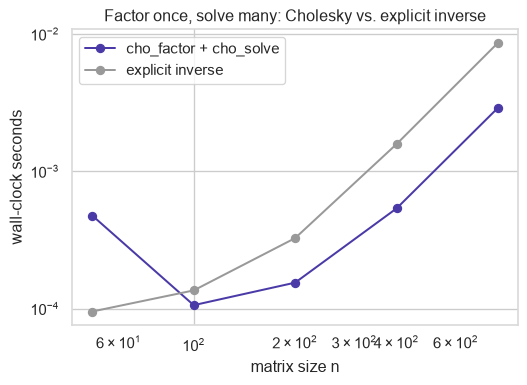
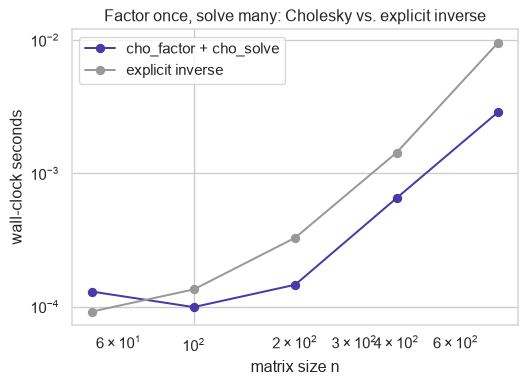
fix(posts): stop the NMF section overstating the ALL/AML split
Only one of the two metagenes is actually diagnosis-pure; the other
is a near-base-rate mix, per code review on PR #157.

diff --git a/docs/posts/matrix-factorizations/index.html b/docs/posts/matrix-factorizations/index.html
@@ -244,7 +244,7 @@ window.Quarto = {
 </figure>
 </div>
 <p>Every factorization here is the closed-form answer to a constrained optimization problem — you just don’t usually see the constraint written down. QR is OLS refusing to square its condition number. Truncated SVD is the provably best solution to “compress this matrix.” Eigendecomposition falls out of maximizing variance along one direction instead of building two orthogonal bases. NMF is SVD’s optimum with a sign constraint bolted on. Cholesky is a positive-definite solve that stops re-deriving the inverse every time. Picking a factorization is picking which constraint buys stability, compression, or interpretability.</p>
-<div id="eddcda71" class="cell" data-execution_count="1">
+<div id="be5553e6" class="cell" data-execution_count="1">
 <details class="code-fold">
 <summary>Code</summary>
 <div class="sourceCode cell-code" id="cb1"><pre class="sourceCode python code-with-copy"><code class="sourceCode python"><span id="cb1-1"><a href="#cb1-1" aria-hidden="true" tabindex="-1"></a><span class="im">import</span> io</span>
@@ -269,7 +269,7 @@ window.Quarto = {
 <section id="squaring-the-condition-number-is-the-hidden-cost-of-the-normal-equations" class="level2">
 <h2 class="anchored" data-anchor-id="squaring-the-condition-number-is-the-hidden-cost-of-the-normal-equations">Squaring the condition number is the hidden cost of the normal equations</h2>
 <p>Ordinary least squares minimizes <span class="math inline">\(\|y-X\beta\|_2^2\)</span>, solved by the normal equations <span class="math inline">\(\hat\beta=(X^TX)^{-1}X^Ty\)</span>. The catch is conditioning: since <span class="math inline">\(X^TX\)</span>’s eigenvalues are <span class="math inline">\(X\)</span>’s squared singular values, <span class="math inline">\(\kappa(X^TX)=\kappa(X)^2\)</span> — that’s the one-line proof, straight from the definition of <span class="math inline">\(A^TA\)</span>’s eigenvalues. Solving with a matrix that ill-conditioned amplifies floating-point error roughly as <span class="math inline">\(\kappa(X)^2\varepsilon\)</span> instead of <span class="math inline">\(\kappa(X)\varepsilon\)</span>. Factor <span class="math inline">\(X=QR\)</span> with <span class="math inline">\(Q\)</span> orthonormal (<span class="math inline">\(\kappa(Q)=1\)</span>) and substitute into the normal equations: <span class="math inline">\(R^TQ^TQR\beta=R^TQ^Ty \Rightarrow R^TR\beta=R^TQ^Ty\)</span>, and since <span class="math inline">\(R^T\)</span> is invertible, <span class="math inline">\(R\beta=Q^Ty\)</span>. Back-substitution solves this in <span class="math inline">\(O(n^2)\)</span>, conditioned on <span class="math inline">\(\kappa(X)\)</span> — never <span class="math inline">\(\kappa(X)^2\)</span> — because <span class="math inline">\(X^TX\)</span> is never formed.</p>
-<div id="2719e29f" class="cell" data-execution_count="2">
+<div id="db2ccea4" class="cell" data-execution_count="2">
 <details class="code-fold">
 <summary>Code</summary>
 <div class="sourceCode cell-code" id="cb2"><pre class="sourceCode python code-with-copy"><code class="sourceCode python"><span id="cb2-1"><a href="#cb2-1" aria-hidden="true" tabindex="-1"></a><span class="co"># Build X with a controlled condition number instead of a raw high-degree</span></span>
@@ -306,7 +306,7 @@ cond(X.T@X) = 1.000e+12
 <section id="truncating-the-svd-is-the-only-rank-k-approximation-optimization-cant-beat" class="level2">
 <h2 class="anchored" data-anchor-id="truncating-the-svd-is-the-only-rank-k-approximation-optimization-cant-beat">Truncating the SVD is the only rank-k approximation optimization can’t beat</h2>
 <p>Truncated SVD isn’t just a good low-rank approximation — Eckart-Young-Mirsky says it’s the <em>best</em> one, full stop. For <span class="math inline">\(A=U\Sigma V^T\)</span> and any <span class="math inline">\(B\)</span> with rank<span class="math inline">\((B)\le k\)</span>, <span class="math inline">\(\|A-B\|_F\ge\sqrt{\sum_{i&gt;k}\sigma_i^2}\)</span>, with equality exactly at <span class="math inline">\(A_k=\sum_{i\le k}\sigma_iu_iv_i^T\)</span>. The proof runs through Courant-Fischer: any rank-<span class="math inline">\(k\)</span> <span class="math inline">\(B\)</span> vanishes on some <span class="math inline">\((n-k)\)</span>-dimensional subspace, which lower-bounds its residual by the tail singular values no matter how <span class="math inline">\(B\)</span> is chosen. That’s a statement about <em>every</em> rank-<span class="math inline">\(k\)</span> matrix, not just other factorizations — nothing beats truncated SVD on Frobenius error at a given rank.</p>
-<div id="34cc6ca9" class="cell" data-execution_count="3">
+<div id="6695ecc8" class="cell" data-execution_count="3">
 <details class="code-fold">
 <summary>Code</summary>
 <div class="sourceCode cell-code" id="cb4"><pre class="sourceCode python code-with-copy"><code class="sourceCode python"><span id="cb4-1"><a href="#cb4-1" aria-hidden="true" tabindex="-1"></a>A <span class="op">=</span> rng.normal(size<span class="op">=</span>(<span class="dv">60</span>, <span class="dv">40</span>))</span>
@@ -328,7 +328,7 @@ sqrt(sum tail^2) = 32.942888</code></pre>
 <section id="the-same-variational-argument-that-optimizes-svd-also-diagonalizes-a-symmetric-matrix" class="level2">
 <h2 class="anchored" data-anchor-id="the-same-variational-argument-that-optimizes-svd-also-diagonalizes-a-symmetric-matrix">The same variational argument that optimizes SVD also diagonalizes a symmetric matrix</h2>
 <p>That same Courant-Fischer argument, applied to one symmetric matrix instead of two orthogonal bases, gives eigendecomposition. Maximize projected variance <span class="math inline">\(v^TAv\)</span> subject to <span class="math inline">\(\|v\|=1\)</span>; the Lagrangian <span class="math inline">\(\mathcal L(v,\lambda)=v^TAv-\lambda(v^Tv-1)\)</span> has stationarity condition <span class="math inline">\(\nabla_v\mathcal L=2Av-2\lambda v=0\Rightarrow Av=\lambda v\)</span> — eigenvectors are exactly the Rayleigh quotient’s stationary points, eigenvalues the stationary values, and <span class="math inline">\(A=Q\Lambda Q^T\)</span> falls out by repeating the maximization on the orthogonal complement already found. For <span class="math inline">\(\Sigma=X^TX\)</span>, eigenvalues of <span class="math inline">\(\Sigma\)</span> are <span class="math inline">\(\sigma_i(X)^2\)</span> — the same identity from above. Eigendecomposing a covariance matrix directly inherits the normal equations’ <span class="math inline">\(\kappa(X)^2\)</span> instability; SVD on the centered data instead sidesteps it, the same fix as before.</p>
-<div id="8d7dc036" class="cell" data-execution_count="4">
+<div id="5add9fa4" class="cell" data-execution_count="4">
 <details class="code-fold">
 <summary>Code</summary>
 <div class="sourceCode cell-code" id="cb6"><pre class="sourceCode python code-with-copy"><code class="sourceCode python"><span id="cb6-1"><a href="#cb6-1" aria-hidden="true" tabindex="-1"></a>Xc <span class="op">=</span> X <span class="op">-</span> X.mean(axis<span class="op">=</span><span class="dv">0</span>)</span>
@@ -351,7 +351,7 @@ cond(Sigma) = 9.911e+11   cond(Xc) = 9.955e+05</code></pre>
 <section id="forcing-nonnegativity-trades-optimality-for-interpretability" class="level2">
 <h2 class="anchored" data-anchor-id="forcing-nonnegativity-trades-optimality-for-interpretability">Forcing nonnegativity trades optimality for interpretability</h2>
 <p>SVD’s optimum is sign-unconstrained, so its components routinely cancel — a factor can subtract as much signal as it adds, a poor model of “parts.” NMF restores interpretability by adding a constraint: <span class="math inline">\(\min_{W,H\ge0}\|V-WH\|_F^2\)</span>. Lee and Seung’s multiplicative update preserves nonnegativity automatically and provably decreases the objective every step: <span class="math display">\[H\leftarrow H\odot\frac{W^TV}{W^TWH},\qquad W\leftarrow W\odot\frac{VH^T}{WHH^T}\]</span> The cost: the objective is only biconvex, not jointly convex, so this converges to <em>a</em> stationary point, not the global one, and it’s sensitive to initialization — <code>nndsvda</code> is a deterministic fix for that, not a guarantee.</p>
-<div id="1f6fc639" class="cell" data-execution_count="5">
+<div id="f32c98af" class="cell" data-execution_count="5">
 <details class="code-fold">
 <summary>Code</summary>
 <div class="sourceCode cell-code" id="cb8"><pre class="sourceCode python code-with-copy"><code class="sourceCode python"><span id="cb8-1"><a href="#cb8-1" aria-hidden="true" tabindex="-1"></a>V_demo <span class="op">=</span> rng.gamma(shape<span class="op">=</span><span class="fl">2.0</span>, scale<span class="op">=</span><span class="fl">1.0</span>, size<span class="op">=</span>(<span class="dv">50</span>, <span class="dv">30</span>))</span>
@@ -370,7 +370,7 @@ W, H nonnegative: True, True</code></pre>
 <section id="factor-once-solve-many-times-cholesky-turns-on3-into-on2-per-query" class="level2">
 <h2 class="anchored" data-anchor-id="factor-once-solve-many-times-cholesky-turns-on3-into-on2-per-query">Factor once, solve many times: Cholesky turns O(n^3) into O(n^2) per query</h2>
 <p>A symmetric <span class="math inline">\(A\)</span> factors as <span class="math inline">\(A=LL^T\)</span> with positive diagonal <span class="math inline">\(L\)</span> iff it’s SPD — equivalently, citing the spectral theorem above rather than asserting it fresh, iff every eigenvalue of <span class="math inline">\(A\)</span> is positive. Cholesky costs <span class="math inline">\(O(n^3/3)\)</span>, half of general LU, by exploiting symmetry; each subsequent solve is <span class="math inline">\(O(n^2)\)</span> via substitution. For <span class="math inline">\(m\)</span> right-hand sides sharing <span class="math inline">\(A\)</span>: <span class="math inline">\(O(n^3+mn^2)\)</span> total, versus forming <span class="math inline">\(A^{-1}\)</span> explicitly at similar asymptotic cost but worse constants and worse conditioning — never invert to solve. For covariance-structured data, <span class="math inline">\(x=Lz\)</span> with <span class="math inline">\(z\sim\mathcal N(0,I)\)</span> gives <span class="math inline">\(x\sim\mathcal N(0,\Sigma)\)</span>: Cholesky is the sampling mechanism, not just the solver.</p>
-<div id="870b54a7" class="cell" data-execution_count="6">
+<div id="17fb5470" class="cell" data-execution_count="6">
 <details class="code-fold">
 <summary>Code</summary>
 <div class="sourceCode cell-code" id="cb10"><pre class="sourceCode python code-with-copy"><code class="sourceCode python"><span id="cb10-1"><a href="#cb10-1" aria-hidden="true" tabindex="-1"></a>sizes <span class="op">=</span> [<span class="dv">50</span>, <span class="dv">100</span>, <span class="dv">200</span>, <span class="dv">400</span>, <span class="dv">800</span>]</span>
@@ -410,7 +410,7 @@ W, H nonnegative: True, True</code></pre>
 <section id="a-real-ec2-fleets-telemetry-is-a-low-rank-signal-plus-a-spike-svd-isolates" class="level2">
 <h2 class="anchored" data-anchor-id="a-real-ec2-fleets-telemetry-is-a-low-rank-signal-plus-a-spike-svd-isolates">A real EC2 fleet’s telemetry is a low-rank signal plus a spike SVD isolates</h2>
 <p>Numenta built the <a href="https://github.com/numenta/NAB">NAB benchmark</a> to test anomaly detection against real streaming metrics, not synthetic ones: its <code>realAWSCloudwatch</code> category is CPU utilization from eight actual production EC2 instances via AmazonCloudwatch, each with human-verified anomaly timestamps. Eight instances, not thousands — worth saying plainly. <em>(This section and the two after it fetch real data live at render time; a future re-render depends on those repositories staying up, though a project-wide render never re-executes this page once frozen.)</em></p>
-<div id="5de0d4cd" class="cell" data-execution_count="7">
+<div id="36374726" class="cell" data-execution_count="7">
 <details class="code-fold">
 <summary>Code</summary>
 <div class="sourceCode cell-code" id="cb11"><pre class="sourceCode python code-with-copy"><code class="sourceCode python"><span id="cb11-1"><a href="#cb11-1" aria-hidden="true" tabindex="-1"></a>base <span class="op">=</span> <span class="st">"https://raw.githubusercontent.com/numenta/NAB/master"</span></span>
@@ -435,7 +435,7 @@ W, H nonnegative: True, True</code></pre>
 </div>
 </div>
 <p>Stack all eight as columns of one real matrix and take the SVD; the scree plot’s elbow says a handful of factors carry the fleet’s shared regime structure:</p>
-<div id="74fe47ce" class="cell" data-execution_count="8">
+<div id="5dfc2e0b" class="cell" data-execution_count="8">
 <details class="code-fold">
 <summary>Code</summary>
 <div class="sourceCode cell-code" id="cb13"><pre class="sourceCode python code-with-copy"><code class="sourceCode python"><span id="cb13-1"><a href="#cb13-1" aria-hidden="true" tabindex="-1"></a>X_tel <span class="op">=</span> telemetry.to_numpy()</span>
@@ -457,7 +457,7 @@ W, H nonnegative: True, True</code></pre>
 </div>
 </div>
 </div>
-<div id="1b878ddd" class="cell" data-execution_count="9">
+<div id="058c1f3b" class="cell" data-execution_count="9">
 <details class="code-fold">
 <summary>Code</summary>
 <div class="sourceCode cell-code" id="cb14"><pre class="sourceCode python code-with-copy"><code class="sourceCode python"><span id="cb14-1"><a href="#cb14-1" aria-hidden="true" tabindex="-1"></a>fig, ax <span class="op">=</span> plt.subplots(figsize<span class="op">=</span>(<span class="dv">8</span>, <span class="fl">2.8</span>))</span>
@@ -476,7 +476,7 @@ W, H nonnegative: True, True</code></pre>
 </div>
 </div>
 <p>The residual after truncating isn’t just visually busy near the labeled anomalies — it’s the anomaly <em>score</em>, and here it’s checked against timestamps a human actually flagged, not injected ones:</p>
-<div id="13217872" class="cell" data-execution_count="10">
+<div id="6a2f28e6" class="cell" data-execution_count="10">
 <details class="code-fold">
 <summary>Code</summary>
 <div class="sourceCode cell-code" id="cb15"><pre class="sourceCode python code-with-copy"><code class="sourceCode python"><span id="cb15-1"><a href="#cb15-1" aria-hidden="true" tabindex="-1"></a>k_tel <span class="op">=</span> <span class="dv">4</span></span>
@@ -507,7 +507,7 @@ W, H nonnegative: True, True</code></pre>
 <section id="linkage-disequilibrium-is-collinearity-with-a-biological-name-and-qr-survives-it" class="level2">
 <h2 class="anchored" data-anchor-id="linkage-disequilibrium-is-collinearity-with-a-biological-name-and-qr-survives-it">Linkage disequilibrium is collinearity with a biological name, and QR survives it</h2>
 <p>CIMMYT’s Global Wheat Program genotyped 599 real breeding lines at 1279 real DArT markers and recorded real grain yield across four field environments, distributed for reuse via the BGLR R package.</p>
-<div id="f7be9e2f" class="cell" data-execution_count="11">
+<div id="4bb398b2" class="cell" data-execution_count="11">
 <details class="code-fold">
 <summary>Code</summary>
 <div class="sourceCode cell-code" id="cb16"><pre class="sourceCode python code-with-copy"><code class="sourceCode python"><span id="cb16-1"><a href="#cb16-1" aria-hidden="true" tabindex="-1"></a>resp <span class="op">=</span> requests.get(<span class="st">"https://raw.githubusercontent.com/gdlc/BGLR-R/master/data/wheat.RData"</span>, timeout<span class="op">=</span><span class="dv">60</span>)</span>
@@ -524,7 +524,7 @@ W, H nonnegative: True, True</code></pre>
 </div>
 </div>
 <p>With <span class="math inline">\(p=1279\)</span> markers exceeding <span class="math inline">\(n=599\)</span> lines, the full marker matrix makes <span class="math inline">\(X^TX\)</span> singular outright — normal equations can’t even be inverted. Subsetting by variance and sweeping how many markers enter the regression shows two real effects at once:</p>
-<div id="23a71d1b" class="cell" data-execution_count="12">
+<div id="e34fcfcf" class="cell" data-execution_count="12">
 <details class="code-fold">
 <summary>Code</summary>
 <div class="sourceCode cell-code" id="cb18"><pre class="sourceCode python code-with-copy"><code class="sourceCode python"><span id="cb18-1"><a href="#cb18-1" aria-hidden="true" tabindex="-1"></a>marker_var <span class="op">=</span> X_markers.var(axis<span class="op">=</span><span class="dv">0</span>)</span>
@@ -563,7 +563,7 @@ cond(X):       ['2.28e+01', '8.56e+01', '2.37e+02', '5.25e+02', '1.13e+03', '2.2
 cond(X.T@X):   ['5.19e+02', '7.33e+03', '5.62e+04', '2.75e+05', '1.27e+06', '4.88e+06', '3.57e+08']</code></pre>
 </div>
 </div>
-<div id="253cd242" class="cell" data-execution_count="13">
+<div id="7ae03f5a" class="cell" data-execution_count="13">
 <details class="code-fold">
 <summary>Code</summary>
 <div class="sourceCode cell-code" id="cb20"><pre class="sourceCode python code-with-copy"><code class="sourceCode python"><span id="cb20-1"><a href="#cb20-1" aria-hidden="true" tabindex="-1"></a>fig, axes <span class="op">=</span> plt.subplots(<span class="dv">1</span>, <span class="dv">3</span>, figsize<span class="op">=</span>(<span class="dv">14</span>, <span class="dv">4</span>))</span>
@@ -599,7 +599,7 @@ cond(X.T@X):   ['5.19e+02', '7.33e+03', '5.62e+04', '2.75e+05', '1.27e+06', '4.8
 </div>
 <p>Held-out accuracy degrades toward zero as marker count nears the 450 training lines — real overfitting, the reason genomic selection never runs plain OLS at genome-wide marker density. Conditioning explains the risk underneath: <span class="math inline">\(\kappa(X)\)</span> and <span class="math inline">\(\kappa(X^TX)\)</span> both grow by orders of magnitude as <span class="math inline">\(p\to n\)</span>, but <span class="math inline">\(\kappa(X^TX)\)</span> — normal equations’ effective conditioning — outpaces <span class="math inline">\(\kappa(X)\)</span> by exactly the squaring from the opening section, burning through double precision’s <span class="math inline">\(\sim\!10^{16}\)</span> margin at roughly half the marker count QR can still handle. That’s the real mechanism behind why breeding programs use ridge-shrunk GBLUP instead of raw least squares — exactly what the same real markers do next.</p>
 <p>The same 350 markers build <span class="math inline">\(G\propto XX^T\)</span>, the genomic relationship matrix. Cholesky-factoring <span class="math inline">\(G\)</span> and sampling <span class="math inline">\(x=Lz\)</span> is the actual mechanism GBLUP uses to simulate correlated breeding values:</p>
-<div id="ea7095c1" class="cell" data-execution_count="14">
+<div id="94d65837" class="cell" data-execution_count="14">
 <details class="code-fold">
 <summary>Code</summary>
 <div class="sourceCode cell-code" id="cb21"><pre class="sourceCode python code-with-copy"><code class="sourceCode python"><span id="cb21-1"><a href="#cb21-1" aria-hidden="true" tabindex="-1"></a>G <span class="op">=</span> (X_sub <span class="op">@</span> X_sub.T) <span class="op">/</span> X_sub.shape[<span class="dv">1</span>]</span>
@@ -613,7 +613,7 @@ cond(X.T@X):   ['5.19e+02', '7.33e+03', '5.62e+04', '2.75e+05', '1.27e+06', '4.8
 </div>
 </div>
 <p>Eigendecomposing that same <span class="math inline">\(G\)</span> — the identity from two sections above, now applied instead of proved — recovers population-structure axes among the 599 real lines:</p>
-<div id="64550af4" class="cell" data-execution_count="15">
+<div id="6a26a1a8" class="cell" data-execution_count="15">
 <details class="code-fold">
 <summary>Code</summary>
 <div class="sourceCode cell-code" id="cb23"><pre class="sourceCode python code-with-copy"><code class="sourceCode python"><span id="cb23-1"><a href="#cb23-1" aria-hidden="true" tabindex="-1"></a>eigvals_G, eigvecs_G <span class="op">=</span> eigh(G)</span>
@@ -640,7 +640,7 @@ cond(X.T@X):   ['5.19e+02', '7.33e+03', '5.62e+04', '2.75e+05', '1.27e+06', '4.8
 <section id="nonnegative-factors-split-real-leukemia-expression-into-the-diagnosis-nobody-told-the-model" class="level2">
 <h2 class="anchored" data-anchor-id="nonnegative-factors-split-real-leukemia-expression-into-the-diagnosis-nobody-told-the-model">Nonnegative factors split real leukemia expression into the diagnosis nobody told the model</h2>
 <p>Golub et al.&nbsp;profiled real bone-marrow samples from 72 leukemia patients on Affymetrix microarrays in 1999, founding molecular cancer classification; Brunet et al.&nbsp;reused this exact data in 2004 to introduce NMF-based tumor subtyping.</p>
-<div id="5e52e8d0" class="cell" data-execution_count="16">
+<div id="655bbd6e" class="cell" data-execution_count="16">
 <details class="code-fold">
 <summary>Code</summary>
 <div class="sourceCode cell-code" id="cb24"><pre class="sourceCode python code-with-copy"><code class="sourceCode python"><span id="cb24-1"><a href="#cb24-1" aria-hidden="true" tabindex="-1"></a>gbase <span class="op">=</span> <span class="st">"https://raw.githubusercontent.com/dharsandip/Classification_of_Cancer_by_Gene_Expression_Dataset/master"</span></span>
@@ -668,7 +668,7 @@ cond(X.T@X):   ['5.19e+02', '7.33e+03', '5.62e+04', '2.75e+05', '1.27e+06', '4.8
 </div>
 </div>
 <p>NMF needs <span class="math inline">\(V\ge0\)</span>, so raw intensities — which include negative background noise — get floored to a small positive value, then log-transformed and subset to the most variable genes: standard microarray preprocessing, and the step Brunet et al.&nbsp;also applied before fitting NMF to this exact data:</p>
-<div id="6b6a18d3" class="cell" data-execution_count="17">
+<div id="c9fdb14b" class="cell" data-execution_count="17">
 <details class="code-fold">
 <summary>Code</summary>
 <div class="sourceCode cell-code" id="cb26"><pre class="sourceCode python code-with-copy"><code class="sourceCode python"><span id="cb26-1"><a href="#cb26-1" aria-hidden="true" tabindex="-1"></a>expr_log <span class="op">=</span> np.log2(np.clip(expr, <span class="fl">1.0</span>, <span class="va">None</span>))</span>
@@ -689,8 +689,8 @@ ALL                26  21
 AML                25   0</code></pre>
 </div>
 </div>
-<p>Fitting NMF with <span class="math inline">\(k=2\)</span> and never showing the model a diagnosis, the dominant metagene per patient still lines up with the real ALL/AML label:</p>
-<div id="b568b099" class="cell" data-execution_count="18">
+<p>Fitting NMF with <span class="math inline">\(k=2\)</span> and never showing the model a diagnosis, one metagene comes out as an ALL-only signature — every patient it dominates is real ALL, zero are AML — while the other is a near-base-rate mix that carries no such signal:</p>
+<div id="d784bc80" class="cell" data-execution_count="18">
 <details class="code-fold">
 <summary>Code</summary>
 <div class="sourceCode cell-code" id="cb28"><pre class="sourceCode python code-with-copy"><code class="sourceCode python"><span id="cb28-1"><a href="#cb28-1" aria-hidden="true" tabindex="-1"></a>fig, axes <span class="op">=</span> plt.subplots(<span class="dv">1</span>, <span class="dv">2</span>, figsize<span class="op">=</span>(<span class="dv">11</span>, <span class="fl">4.5</span>))</span>

diff --git a/docs/index.html b/docs/index.html
@@ -239,7 +239,7 @@ Reading Time
 <span class="listing-reading-time">7 min</span>
 </td>
 </tr>
[2 lines of base64/hex data omitted]
 <td>
 <span class="listing-image"><img loading="lazy" src="./posts/matrix-factorizations/cover.png" style="height: 40px;"></span>
 </td>
